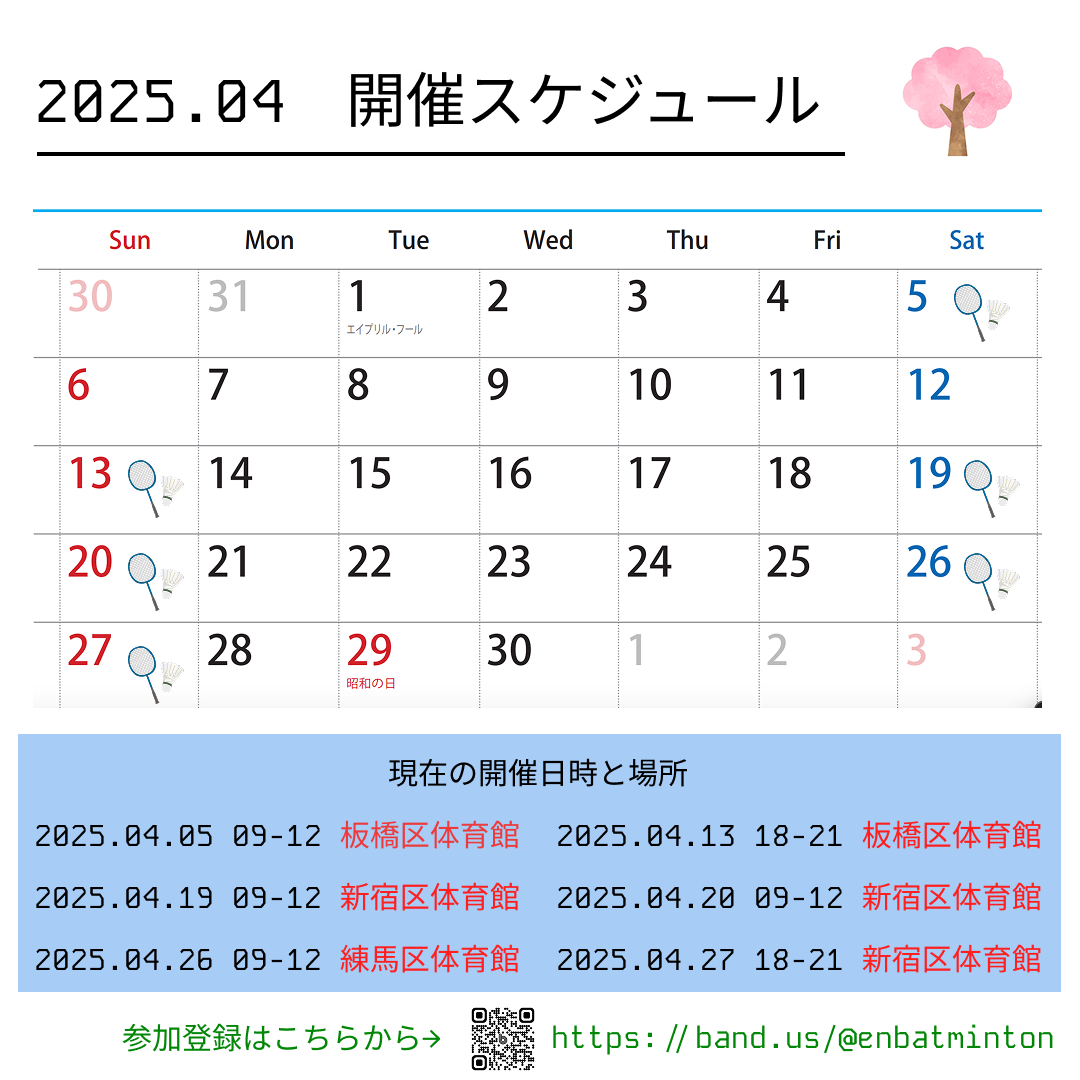
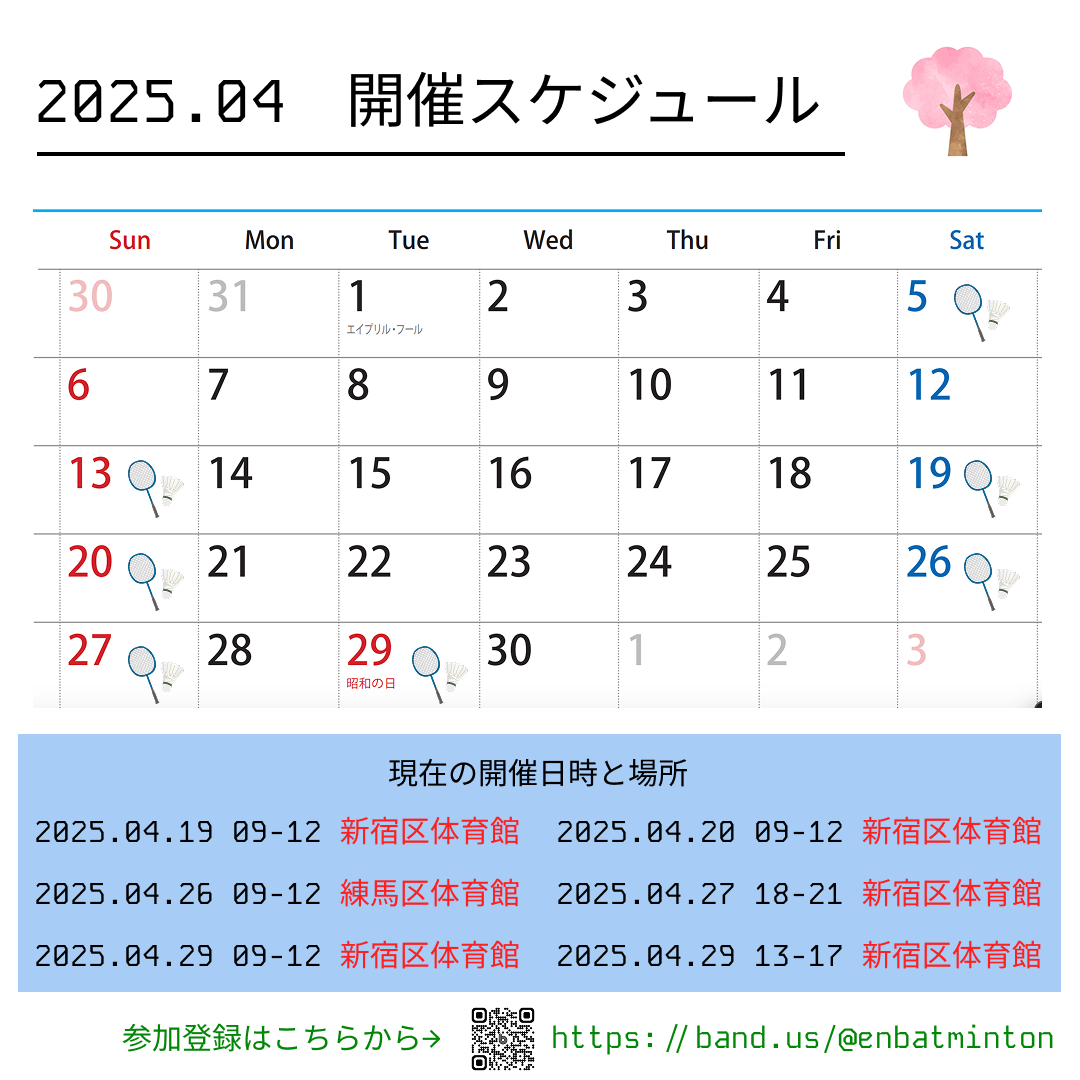
add calendar

Changed region(s): [[0.0306, 0.7333, 0.4889, 0.9167], [0.5194, 0.7333, 0.9778, 0.9167], [0.3667, 0.5806, 0.4278, 0.6417]]

diff --git a/page/schedule/index.html b/page/schedule/index.html
@@ -157,20 +157,6 @@
           <hr>
           <div class="schedule row mt-3">
             <div class="col-lg-2 ms-auto publish-date">
-              4/5(土) 
-            </div>
-            <div class="col-lg-2 ms-auto publish-date">
-              9:00～ 12:00
-            </div>
-            <div class="col-lg-4 ms-auto">
-              上板橋体育館 4面
-            </div>
-            <div class="col-lg-4 ms-auto">
-              参加上限：36名
-            </div>
-          </div>
-          <div class="schedule row mt-3">
-            <div class="col-lg-2 ms-auto publish-date">
               4/13(日)
             </div>
             <div class="col-lg-2 ms-auto publish-date">
